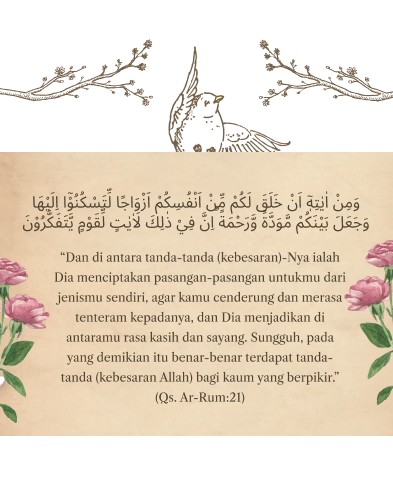
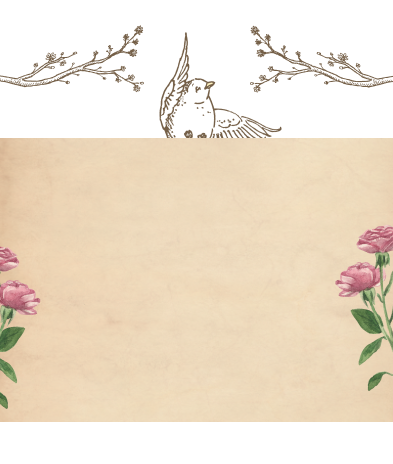
chore: add ayat

diff --git a/src/components/sections/second/index.js b/src/components/sections/second/index.js
@@ -55,13 +55,31 @@ export default function SecondSection() {
         <p className="font-playfair text-center text-[#504533]">
           13 Oktober 2023
         </p>
-        <Image
+
+          <div className="bg-ayat bg-no-repeat bg-center bg-contain min-h-[500px] text-center px-16">
+            <div className="pt-44" />
+            <p className="text-[#504533] text-[16px]">
+              وَمِنْ اٰيٰتِهٖٓ اَنْ خَلَقَ لَكُمْ مِّنْ اَنْفُسِكُمْ اَزْوَاجًا
+              لِّتَسْكُنُوْٓا اِلَيْهَا وَجَعَلَ بَيْنَكُمْ مَّوَدَّةً
+              وَّرَحْمَةً ۗاِنَّ فِيْ ذٰلِكَ لَاٰيٰتٍ لِّقَوْمٍ يَّتَفَكَّرُوْنَ
+            </p>
+            <p className="text-[#504533] text-[12px] pt-2">
+              “Dan di antara tanda-tanda (kebesaran)-Nya ialah Dia menciptakan
+              pasangan-pasangan untukmu dari jenismu sendiri, agar kamu
+              cenderung dan merasa tenteram kepadanya, dan Dia menjadikan di
+              antaramu rasa kasih dan sayang. Sungguh, pada yang demikian itu
+              benar-benar terdapat tanda-tanda (kebesaran Allah) bagi kaum yang
+              berpikir.” (Qs. Ar-Rum:21)
+            </p>
+          </div>
+
+        {/* <Image
           src="/assets/ayat.png"
           alt="ayat"
           width={600}
           height={700}
           className="!w-full pt-20"
-        />
+        /> */}
         <div className="flex w-full justify-center pb-10">
           <Image
             src="/assets/check-it.svg"

diff --git a/tailwind.config.js b/tailwind.config.js
@@ -20,6 +20,7 @@ module.exports = {
         building: "url('/assets/building.svg')",
         std: "url('/assets/save-date.svg')",
         paperBird: "url('/assets/paper-bird.png')",
+        ayat: "url('/assets/ayat.png')",
       },
       fontFamily: {
         libreCaslon: [
